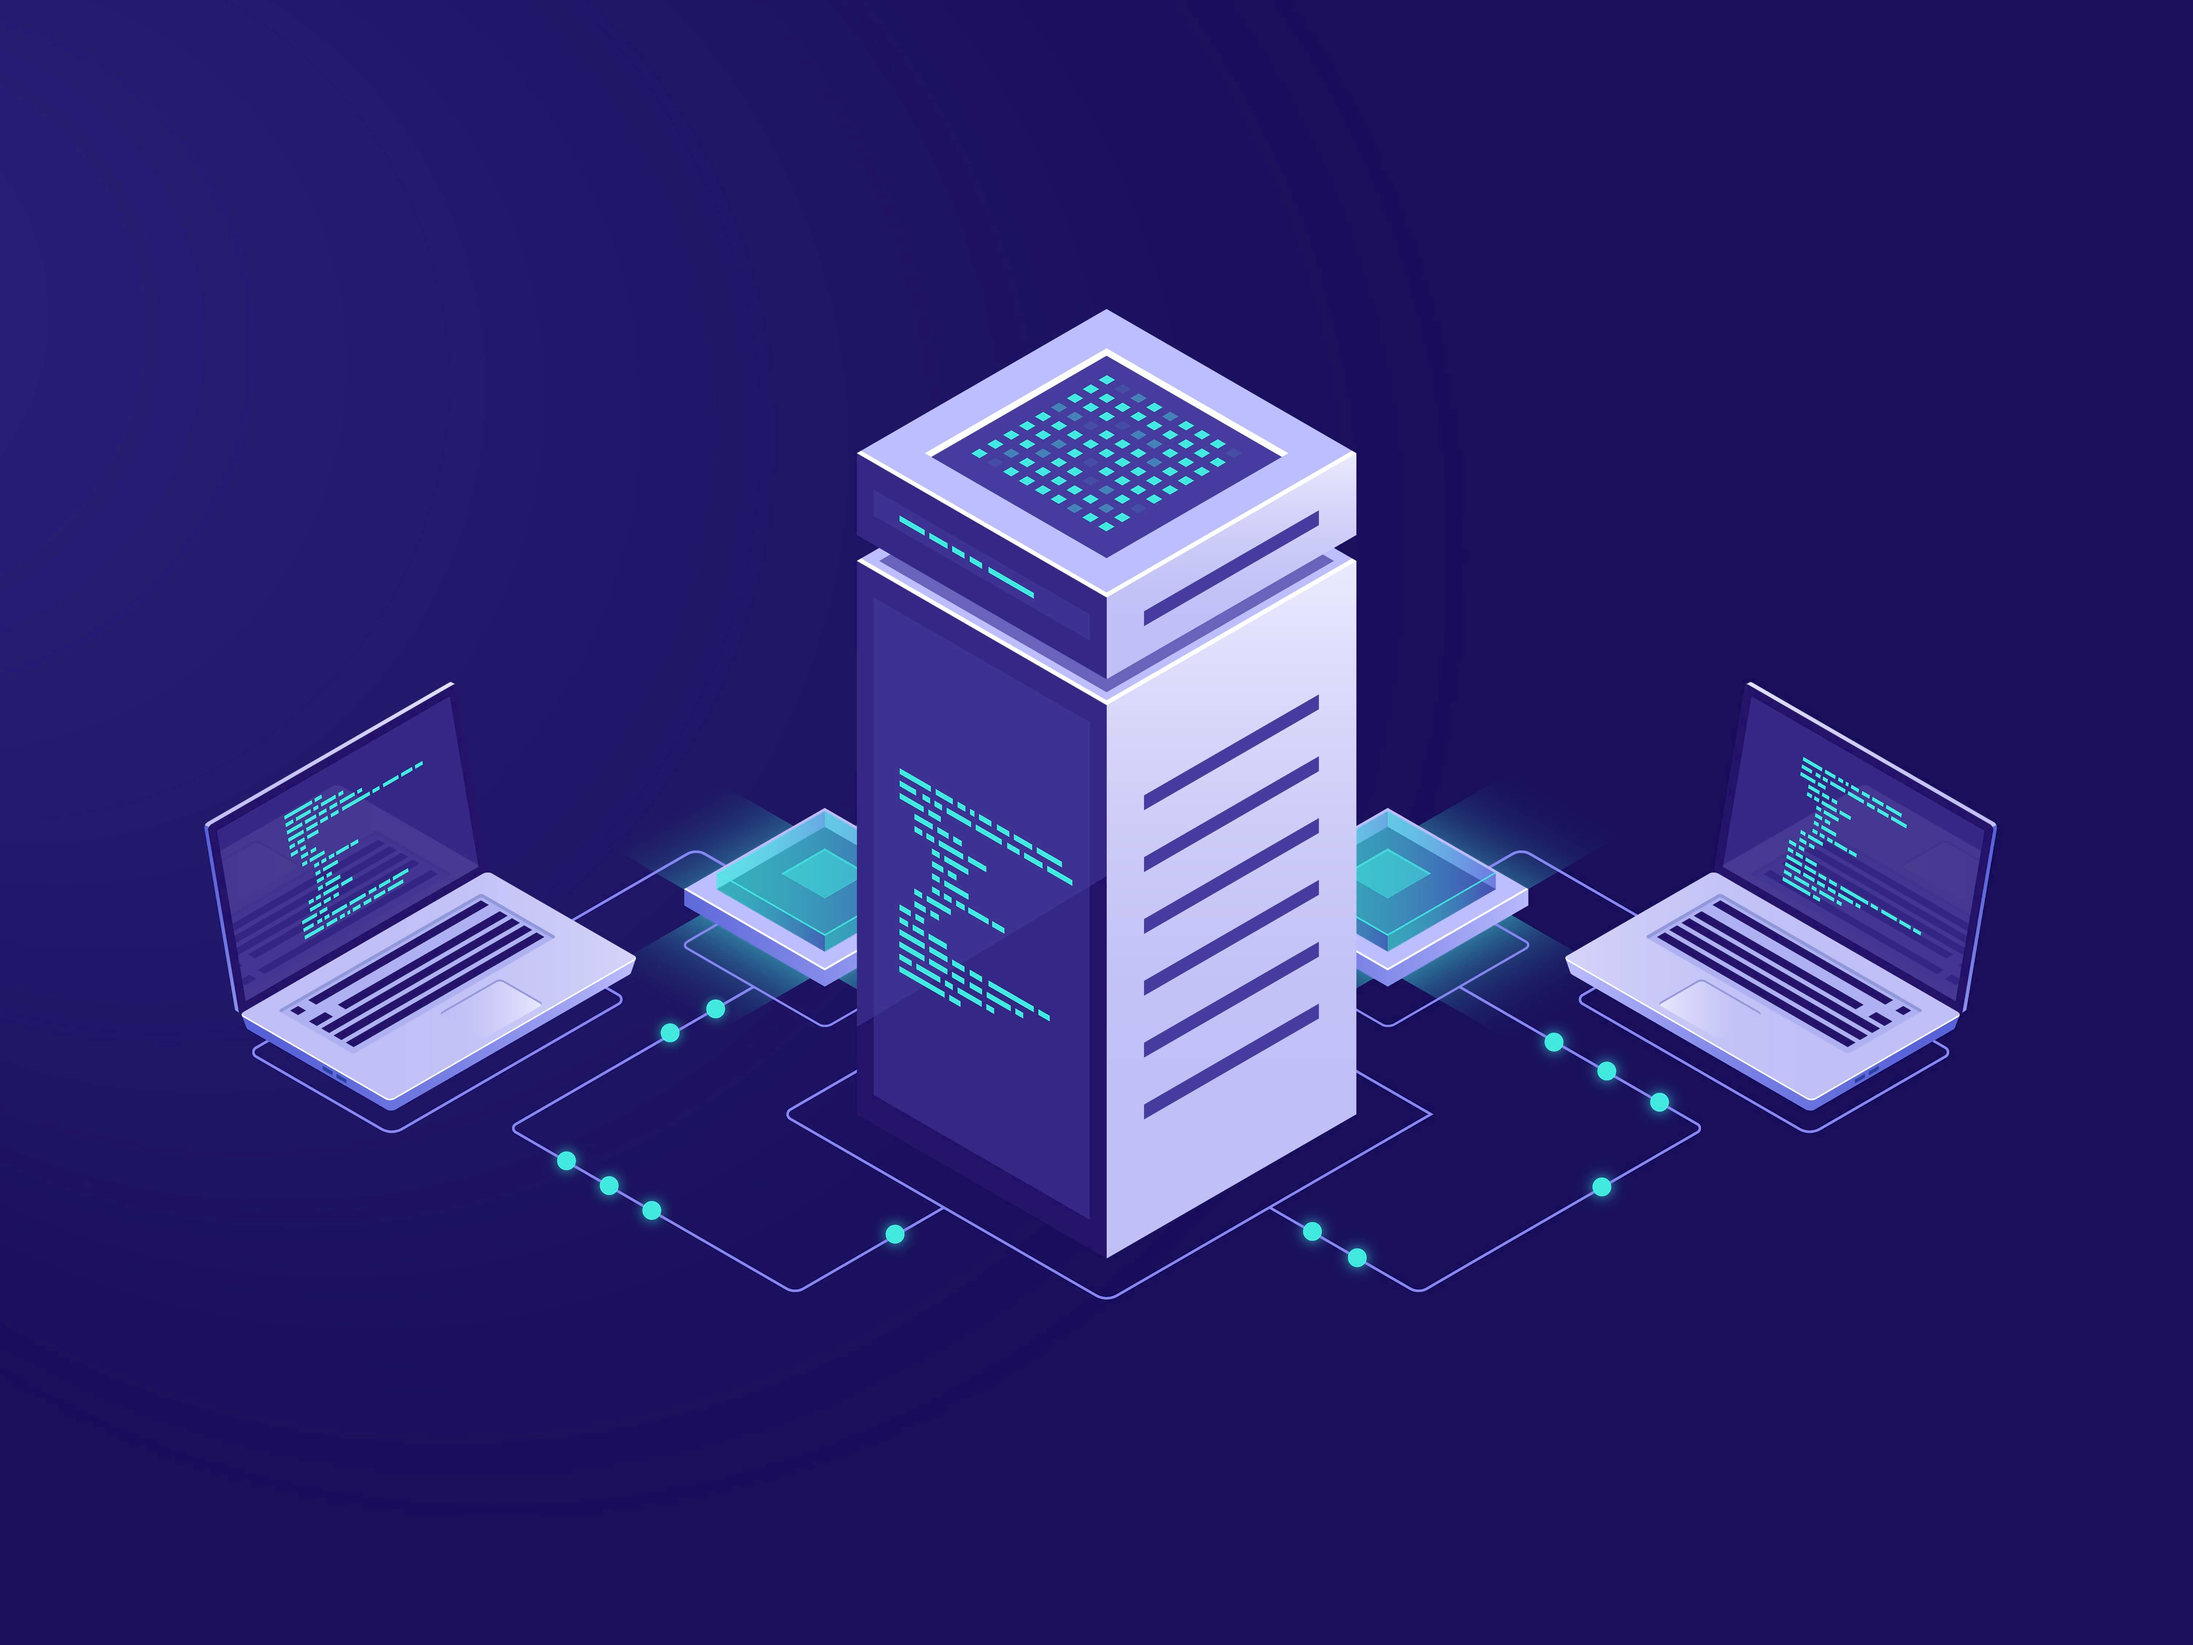
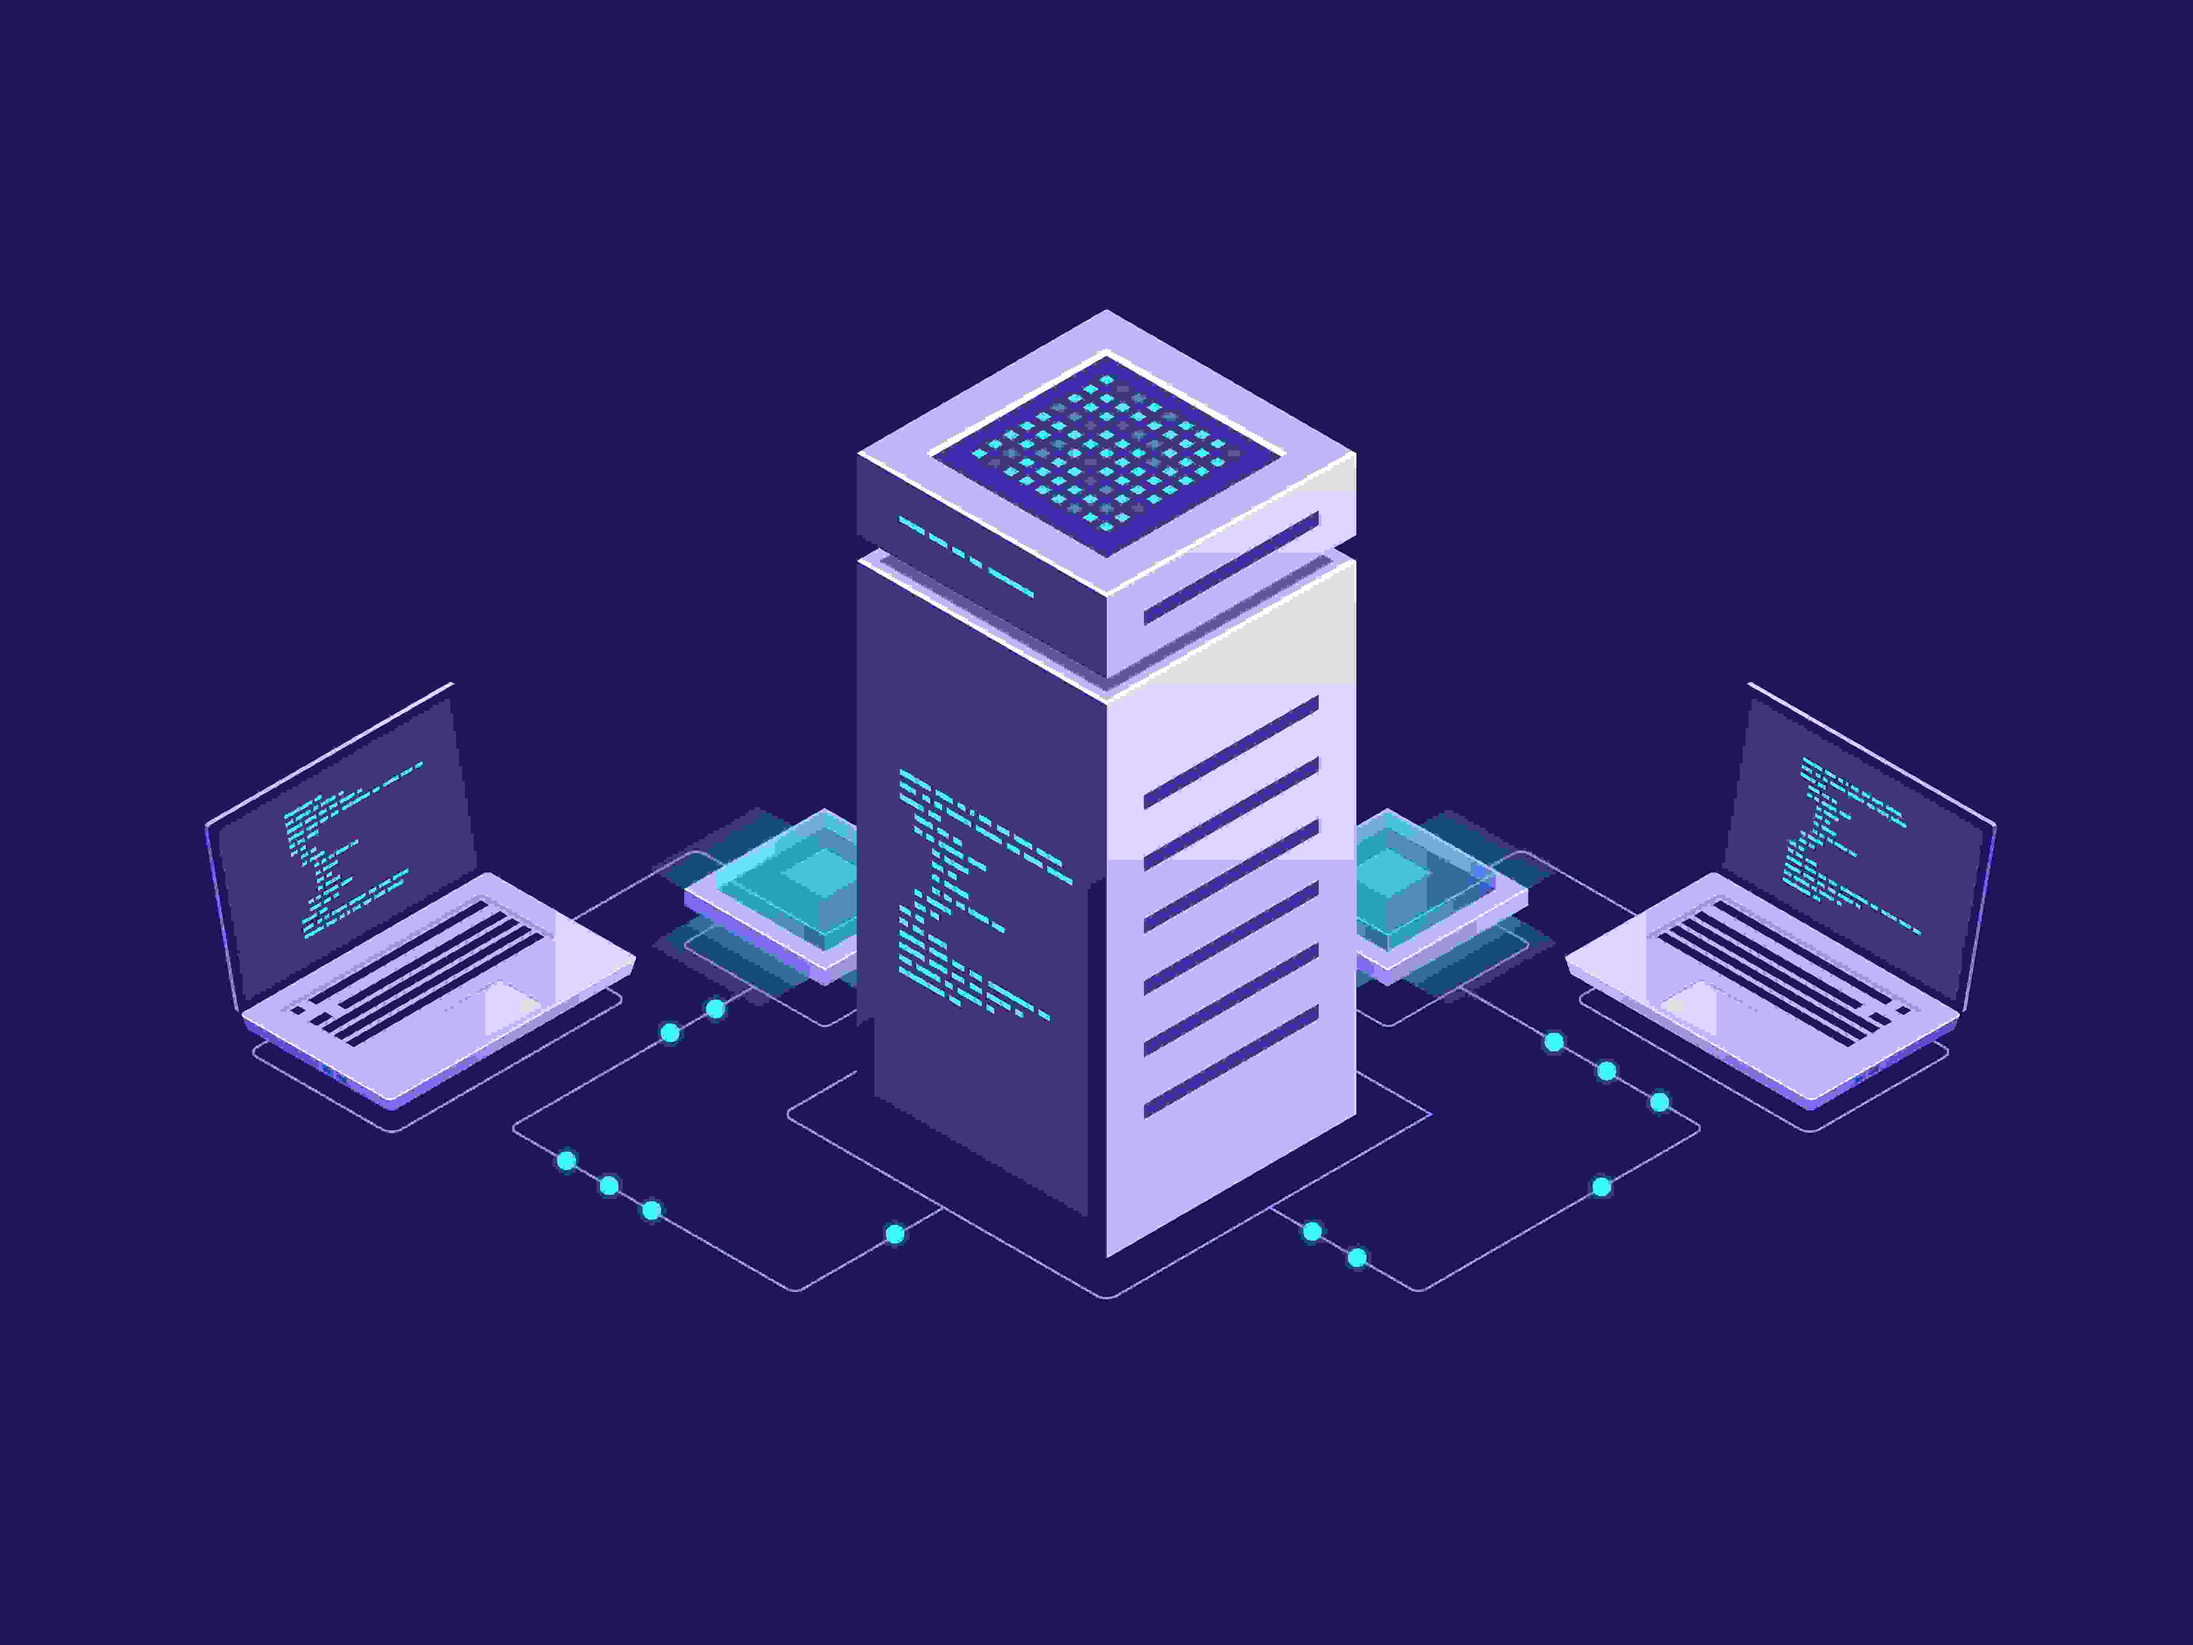
Add sitemap and new background image

diff --git a/index.html b/index.html
@@ -5,8 +5,6 @@
     <meta name="viewport" content="width=device-width, initial-scale=1.0">
     <title>Elipticnet - Monitoring of Network Equipment in the Cloud</title>
     <meta name="description" content="Elipticnet is a scalable, easy-to-use platform to monitor the health and latency of your network equipment, with detailed graphs and alerts.">    <meta name="keywords" content="Elipticnet, network monitoring, cloud monitoring, network equipment, network latency, availability, email alerts, performance graphs">    <meta name="author" content="Elipticnet">
-    <link rel="icon" href="https://elipticnet.com/favicon.ico">
-
     <link rel="stylesheet" href="../css/network_service_monitoring.css">
 </head>
 

diff --git a/css/network_service_monitoring.css b/css/network_service_monitoring.css
@@ -9,12 +9,15 @@
 }
 
 body{
+/*background-image: url('../img/background/background.jpg');*/
+
 background-image: url('../img/background/background.jpg');
+background-color: #1f1359;
 background-repeat: no-repeat;
 background-size:cover;
 background-position: center;
 height: 100vh;
-backdrop-filter: blur(5px);
+backdrop-filter: blur(10px);
 }
 
 main{
